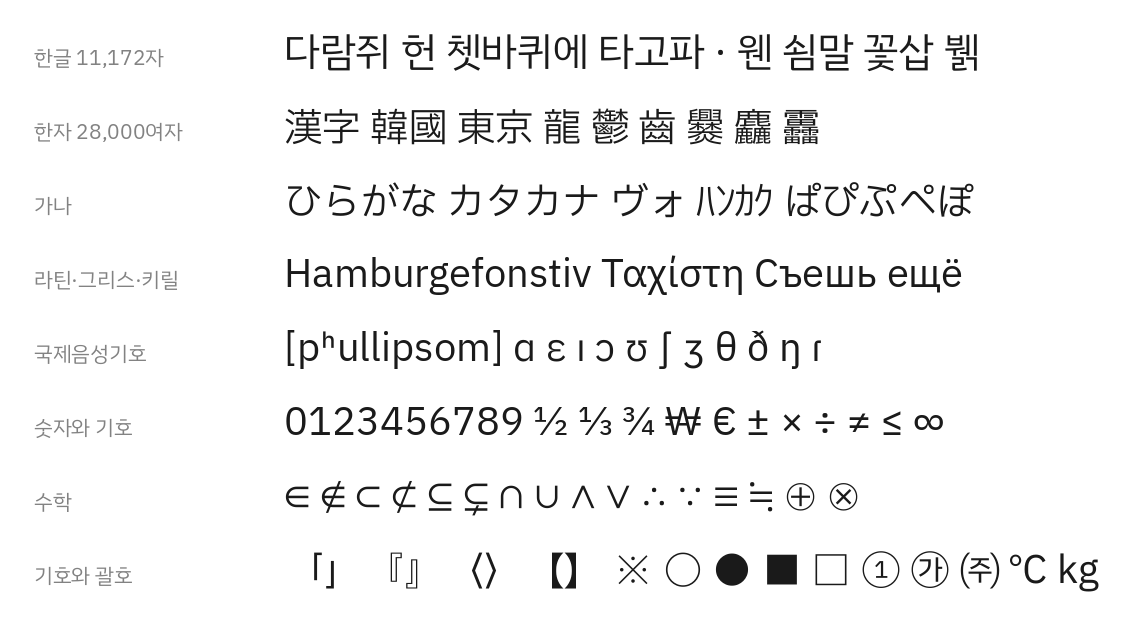
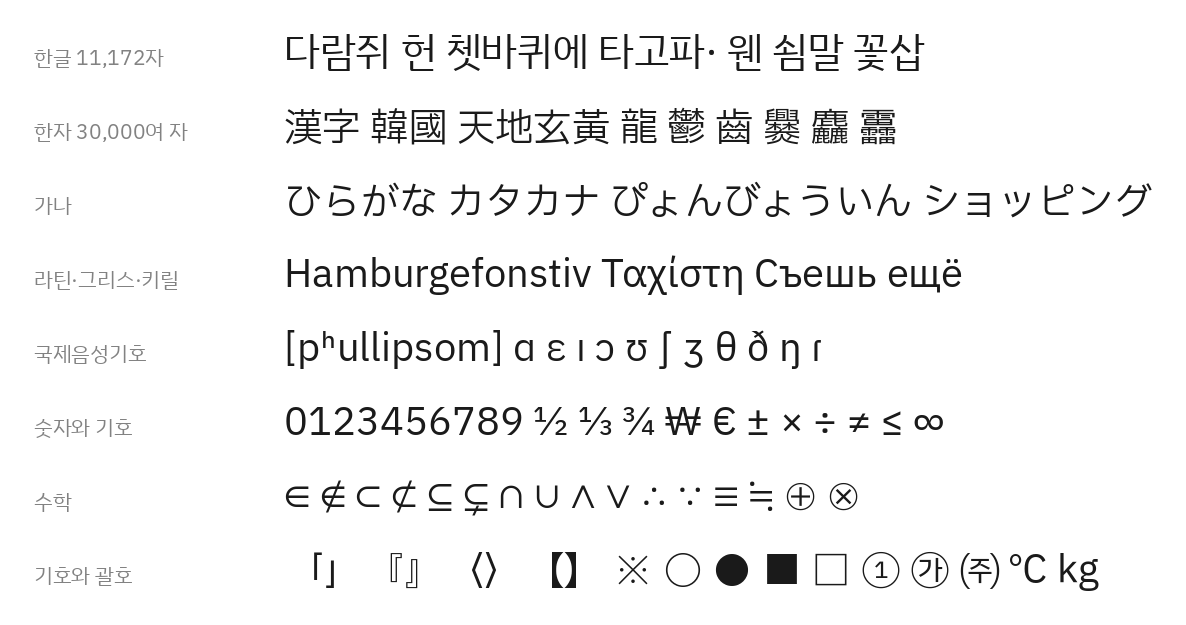
한글·한자·기호에 힌팅을 넣고, hinted 와 unhinted 를 함께 싣는다
IBM Plex Sans KR hinted 의 한글 2,780자 힌팅을 옮겨 와 12px 의 한글이 IBM 과
똑같이 그려진다. 나머지는 ttfautohint. 배포 압축 파일은 scripts/package.py 로
만들고 hinted/ 와 unhinted/ 를 함께 담는다.

합치자를 올린다 — locl 이 drop 한 글자(兌 悤 憁 摠 蔥)에도 나라 자형을 싣는다.
README 의 나라별 자형 견본을 «도서관의 설계자» 로 바꾸고 한국 자형 출처를 적는다.

diff --git a/scripts/specimen.py b/scripts/specimen.py
@@ -8,7 +8,7 @@
     mixed.png     한글·한자·가나·라틴을 섞은 본문
     weights.png   여덟 굵기와 이탤릭
     coverage.png  글자 갈래별 견본
-    locl.png      같은 한자가 언어마다 어떻게 보이는지 (locl)
+    locl.png      같은 말이 언어마다 어떻게 보이는지 (locl)
 """
 
 from __future__ import annotations
@@ -89,9 +89,9 @@ def weights(fam, out):
 
 
 ROWS = [
-    ("한글 11,172자", "다람쥐 헌 쳇바퀴에 타고파 · 웬 쇰말 꽃삽 뷁"),
-    ("한자 28,000여자", "漢字 韓國 東京 龍 鬱 齒 爨 麤 靐"),
-    ("가나", "ひらがな カタカナ ヴォ ﾊﾝｶｸ ぱぴぷぺぽ"),
+    ("한글 11,172자", "다람쥐 헌 쳇바퀴에 타고파· 웬 쇰말 꽃삽"),
+    ("한자 30,000여 자", "漢字 韓國 天地玄黃 龍 鬱 齒 爨 麤 靐"),
+    ("가나", "ひらがな カタカナ ぴょんびょういん ショッピング"),
     ("라틴·그리스·키릴", "Hamburgefonstiv Ταχίστη Съешь ещё"),
     ("국제음성기호", "[pʰullipsom] ɑ ɛ ɪ ɔ ʊ ʃ ʒ θ ð ŋ ɾ"),
     ("숫자와 기호", "0123456789 ½ ⅓ ¾ ₩ € ± × ÷ ≠ ≤ ∞"),
@@ -116,21 +116,23 @@ def coverage(fam, out):
     print(out)
 
 
-LOCL_CHARS = "社者丈骨直角令海船器房曜"
-LOCL_ROWS = [("한국어", "ko"), ("일본어", "ja"), ("중국어 번체", "zh-Hant"), ("중국어 간체", "zh-Hans")]
+LOCL_ROWS = [("한국어", "ko", "圖書館의設計者"),
+             ("일본어", "ja", "図書館の設計者"),
+             ("중국어 번체", "zh-Hant", "圖書館的設計者"),
+             ("중국어 간체", "zh-Hans", "图书馆的设计者")]
 
 
 def locl(fam, out):
-    """같은 한자를 언어마다 한 줄씩. 한국 자형과 같은 칸은 회색으로 둔다.
+    """같은 말을 언어마다 한 줄씩. 한국 자형과 같은 글자는 회색으로 둔다.
 
     Raqm 이 language 를 HarfBuzz 로 넘겨 locl 이 걸린다. 같은지는 한 글자씩
     따로 그려 본 비트맵으로 가린다.
     """
     from PIL import Image, ImageChops, ImageDraw
 
-    size, cell, pad, lab = 100, 138, 50, 250
+    size, pad, lab = 40, 60, 170
     face = fam.face("Regular", size)
-    gone = fam.missing(LOCL_CHARS)
+    gone = fam.missing("".join(t for _, _, t in LOCL_ROWS))
     if gone:
         raise SystemExit("ERROR: 글꼴에 없는 글자: " + " ".join(gone))
 
@@ -140,17 +142,18 @@ def locl(fam, out):
                                anchor="ls", language=lang)
         return m
 
-    img, d = canvas((lab + pad + len(LOCL_CHARS) * cell, pad + len(LOCL_ROWS) * 150), PAPER)
-    y = pad + 110
-    for r, (label, lang) in enumerate(LOCL_ROWS):
-        d.text((pad, y - 30), label, font=fam.face("Regular", 26), fill=GREY, anchor="ls")
-        for i, ch in enumerate(LOCL_CHARS):
+    width = max(face.getlength(t, language=lang) for _, lang, t in LOCL_ROWS)
+    img, d = canvas((int(lab + 2 * pad + width), 40 + len(LOCL_ROWS) * 68), PAPER)
+    y = pad + 20
+    for r, (label, lang, text) in enumerate(LOCL_ROWS):
+        d.text((pad, y), label, font=fam.face("Regular", 19), fill=GREY, anchor="ls")
+        x = lab + pad
+        for ch in text:
             same = r > 0 and ImageChops.difference(mask(ch, lang), mask(ch, "ko")).getbbox() is None
-            d.text((lab + pad + i * cell, y), ch, font=face, fill=(200, 200, 200) if same else INK,
+            d.text((x, y), ch, font=face, fill=(200, 200, 200) if same else INK,
                    anchor="ls", language=lang)
-        if r < len(LOCL_ROWS) - 1:
-            d.line([(pad, y + 38), (img.width - pad, y + 38)], fill=(232, 232, 232), width=2)
-        y += 150
+            x += face.getlength(ch, language=lang)   # 자간은 글자의 제 advance 그대로
+        y += 68
     crop(img, 34).save(out)
     print(out)
 

diff --git a/scripts/package.py b/scripts/package.py
@@ -1,0 +1,70 @@
+"""배포용 압축 파일을 만든다.
+
+    python3 scripts/package.py            # build/Pullipsom → dist/Pullipsom_v{버전}.zip
+    python3 scripts/package.py -o 시험.zip
+
+이미 낸 버전의 압축 파일은 덮어쓰지 않는다. 레시피의 버전을 먼저 올린다.
+
+압축 파일 안은 이렇게 놓는다. IBM Plex 의 배포판과 같은 나눔이다.
+
+    Pullipsom/hinted/    힌팅을 넣은 글꼴. Windows 처럼 작은 크기에서 힌팅을 쓰는 곳
+    Pullipsom/unhinted/  힌팅을 뺀 글꼴. macOS, 고해상도 화면, 웹. 파일이 절반쯤이다
+    Pullipsom/LICENSE.md
+    Pullipsom/README.md
+
+레시피의 스타일이 두 쪽 모두에 다 있어야 만든다. 일부만 다시 빌드해서 예전 파일이
+섞여 있으면 unhinted 쪽이 비므로 여기서 걸린다.
+"""
+
+from __future__ import annotations
+
+import argparse
+import json
+import os
+import sys
+import zipfile
+
+ROOT = os.path.dirname(os.path.dirname(os.path.abspath(__file__)))
+
+
+def main():
+    rec = json.load(open(os.path.join(ROOT, "recipes", "pullipsom.json"), encoding="utf-8"))
+    family = rec["output"]["familyName"].replace(" ", "")
+    ap = argparse.ArgumentParser(description="배포용 압축 파일을 만든다")
+    ap.add_argument("build", nargs="?", default=os.path.join("build", family))
+    ap.add_argument("-o", "--out", help="압축 파일 경로. 없으면 dist/{가족}_v{버전}.zip")
+    args = ap.parse_args()
+    build = os.path.join(ROOT, args.build)
+    names = ["%s-%s.ttf" % (family, s["file"]) for s in rec["styles"]]
+    sub = rec["finalize"]["unhintedDir"]
+
+    missing = [os.path.join(d, n) for d in ("", sub) for n in names
+               if not os.path.isfile(os.path.join(build, d, n))]
+    for n in names:
+        a, b = os.path.join(build, n), os.path.join(build, sub, n)
+        if os.path.isfile(a) and os.path.isfile(b) and os.path.getmtime(b) < os.path.getmtime(a):
+            missing.append("%s (hinted 보다 오래됨)" % os.path.join(sub, n))
+    if missing:
+        print("ERROR: 다음 파일이 없거나 맞지 않습니다. 16 스타일을 모두 다시 빌드하세요.", file=sys.stderr)
+        for m in sorted(set(missing)):
+            print("  " + m, file=sys.stderr)
+        return 1
+
+    out = args.out or os.path.join(ROOT, "dist", "%s_v%s.zip" % (family, rec["output"]["version"]))
+    if os.path.exists(out):
+        print("ERROR: %s 가 이미 있습니다. 낸 버전은 덮어쓰지 않습니다." % out, file=sys.stderr)
+        return 1
+    os.makedirs(os.path.dirname(os.path.abspath(out)), exist_ok=True)
+    with zipfile.ZipFile(out, "w", zipfile.ZIP_DEFLATED) as z:
+        for n in names:
+            z.write(os.path.join(build, n), "%s/hinted/%s" % (family, n))
+            z.write(os.path.join(build, sub, n), "%s/unhinted/%s" % (family, n))
+        for doc in ("LICENSE.md", "README.md"):
+            z.write(os.path.join(ROOT, doc), "%s/%s" % (family, doc))
+    print("%s  %d MB  %d 파일" % (os.path.relpath(out, ROOT), os.path.getsize(out) >> 20,
+                                 len(zipfile.ZipFile(out).namelist())))
+    return 0
+
+
+if __name__ == "__main__":
+    sys.exit(main())

diff --git a/CHANGELOG.md b/CHANGELOG.md
@@ -46,6 +46,55 @@
 | `dropPart` · `placeDots` | `swapCounters` + `dots: "drop"` · `"place"` |
 | `extendBar` | `stretchStroke` + `axis: "h"` |
 
+### 나라별 한자 자형 (locl) — 바뀌는 글자 수
+
+KS 보류 59자를 고친 만큼 일본어·번체 글에서 바꿀 글자가 바뀌었습니다.
+
+| 언어 | 0.2.0 | 1.0.0 |
+|---|---|---|
+| 일본어 (JAN) | 39 | 93 |
+| 번체 (ZHT · ZHH · ZHTM) | 10,582 | 10,580 |
+| 간체 (ZHS) | 4,982 | 4,982 |
+
+- 일본어는 한국 자형으로 고친 글자마다 고치기 전 JP 글리프를 따로 싣습니다.
+- 兌 悤 憁 摠 蔥 은 기본 글리프를 TC·SC 에 맡기려고 JP(兌 는 TC 도)에서 뺐는데,
+  locl 이 뺀 뒤의 글자만 봐서 일본어 글에서도 KS 자형이 나오고 번체 兌 는 SC 자형이
+  나왔습니다. 합치자가 locl 을 지을 때 뺀 글자도 보게 고쳐, 일본어는 JP, 번체 兌 는
+  TC 자형으로 나옵니다.
+- 번체는 이제 기본이 TC 인 悤 憁 摠 蔥 이 빠지고, 고친 檉 瑥 이 들어왔습니다.
+
+한 스타일의 글리프는 59,519–59,530 입니다.
+
+### 힌팅 — 한글·한자·기호까지
+
+지금까지는 로마자에만 힌팅이 있고 한글·한자·기호는 무힌팅이었습니다. 그래서
+Windows 의 VSCode 처럼 14px 언저리 작은 크기에서 한글 가로획이 두 픽셀에 걸쳐 흐리게
+번졌습니다. 이제 부품을 다 합친 뒤 글꼴 전체에 ttfautohint 를 돌립니다.
+
+- ttfautohint 에는 한글·한자 스크립트가 없어서, 그 글자들은 대체 스크립트 `none` 으로
+  힌팅됩니다. 로마자의 높이 영역은 받지 않고 획만 픽셀에 맞춥니다.
+- 그것만으로는 12px 의 풀처럼 획이 촘촘한 한글은 획이 뭉쳐 읽히지 않습니다.
+  그래서 IBM 이 크기별로 손본 한글 2,780자(KS X 1001 2,350자 + 430자)는
+  IBM Plex Sans KR hinted 의 힌팅을 그대로 옮겨 왔습니다. 풀잎솜의 한글은 IBM 과
+  윤곽이 같아서, 8–48px 에서 IBM 과 픽셀 하나까지 똑같이 그려집니다.
+- IBM 도 힌팅하지 않은 나머지 한글 8,392자는 ttfautohint 힌팅을 씁니다.
+- 로마자 힌팅 옵션은 그대로입니다.
+- 힌팅 명령이 들어가 파일이 굵기마다 두 배쯤 커집니다 (Regular 15.6MB → 31MB).
+
+- Thin 은 IBM 의 hinted 판에도 힌팅이 없어서 한글도 ttfautohint 만 씁니다.
+- 이탤릭도 같은 힌팅을 씁니다. IBM 의 한글 힌팅은 세로로만 맞추므로, 옆으로 기울인
+  글자에도 그대로 맞습니다. 기울이면서 윤곽 짜임이 바뀐 220–350자는 ttfautohint 입니다.
+- 한자는 ttfautohint 입니다. IBM Plex Sans JP·TC·SC 의 hinted 판은 로마자와 기호만
+  힌팅하고 한자는 힌팅하지 않습니다.
+
+배포 파일에는 힌팅을 넣은 판(`hinted/`)과 뺀 판(`unhinted/`)을 함께 싣습니다.
+unhinted 는 hinted 와 윤곽이 같고 힌팅 명령만 없습니다. 파일은 절반쯤입니다.
+패키지는 `scripts/package.py` 로 만들고, 두 벌을 담아 0.2.0 의 141MB 에서 390MB 쯤으로
+커집니다.
+
+합치자에는 `finalize.hintMerged` `finalize.borrowHints` `finalize.unhintedDir` 옵션이
+생겼습니다. `hintMerged` 를 끄면 예전처럼 뼈대에만 힌팅합니다.
+
 ## 0.2.0 — 2026-09-30
 
 ### 나라별 한자 자형 (locl)

diff --git a/RECIPE.md b/RECIPE.md
@@ -100,8 +100,20 @@ Sans KR이 CJK 본문에 맞춰 길이와 폭을 달리 그린 것입니다.
 Sans KR에 없고 Sans에 있는 코드포인트가 695자입니다. 이탤릭은 특히 큰데,
 CJK 판본은 어느 것도 이탤릭 파일을 내놓지 않습니다.
 
-뼈대가 된 소스는 최종 글꼴의 골격이 되고 힌팅도 여기에만 들어갑니다. 커닝과
-합자, 분수 같은 OpenType 기능도 뼈대의 것이 남습니다.
+뼈대가 된 소스는 최종 글꼴의 골격이 됩니다. 커닝과 합자, 분수 같은 OpenType
+기능도 뼈대의 것이 남습니다.
+
+힌팅은 부품을 다 합친 뒤 글꼴 전체에 ttfautohint 로 넣습니다(`hintMerged`).
+ttfautohint 에는 한글·한자 스크립트가 없어 획만 픽셀에 맞추는데, 그것으로는 12px 의
+풀처럼 획이 촘촘한 한글이 뭉쳐 읽히지 않습니다. IBM Plex Sans KR hinted 는
+KS X 1001 한글 2,350자와 430자를 크기별로 손봤고, 풀잎솜의 한글은 IBM 과 윤곽이
+같으므로 그 2,780자는 IBM 힌팅을 그대로 옮겨 옵니다(`borrowHints`). IBM 힌팅은
+세로로만 맞추므로 이탤릭에도 y 좌표가 같은 글자에는 그대로 옮깁니다. Thin 은 IBM 도
+힌팅이 없어 ttfautohint 만 씁니다. JP·TC·SC 의 hinted 판은 한자를 힌팅하지 않아
+한자는 ttfautohint 입니다.
+
+빌드는 힌팅을 뺀 판도 `unhinted/` 에 함께 만듭니다(`unhintedDir`). 배포 파일에는
+둘 다 싣습니다.
 
 ### 글자는 IBM Plex Sans에서만
 

diff --git a/HOW_TO_BUILD.md b/HOW_TO_BUILD.md
@@ -22,7 +22,7 @@ PYTHONPATH=tools/src python3 -m hapchija fetch --recipe recipes/pullipsom.json
 | | 내용 | git |
 |---|---|---|
 | `recipes/` | 레시피 | 추적 |
-| `scripts/` | README 견본 그림을 만드는 스크립트 | 추적 |
+| `scripts/` | README 견본 그림과 배포 파일을 만드는 스크립트 | 추적 |
 | `tests/` | 테스트와 기준 글리프(golden reference) | 추적 |
 | `vendor/` | 받아온 소스 글꼴 | 무시 |
 | `work/` | 빌드 중간 산출물. 끝나면 지워집니다 | 무시 |
@@ -56,7 +56,15 @@ hapchija build --recipe recipes/pullipsom.json -w text,semibold   # Text, SemiBo
 으로 봅니다.
 
 생성된 TTF 는 `build/Pullipsom/` 아래에 `Pullipsom-{style}.ttf` 로 나옵니다.
-16개 스타일이 나오며, 여덟 두께를 병렬로 만들어 2분 안팎 걸립니다.
+16개 스타일이 나오며, 여덟 두께를 병렬로 만들어 2분 안팎 걸립니다. 힌팅을 뺀 판은
+`build/Pullipsom/unhinted/` 에 같은 이름으로 나옵니다.
+
+배포 파일은 16개 스타일을 모두 빌드한 뒤 만듭니다. hinted 와 unhinted 를 두 폴더로
+나눠 `dist/Pullipsom_v{버전}.zip` 에 담습니다.
+
+```bash
+python3 scripts/package.py
+```
 
 ## Docker 없이 빌드
 
